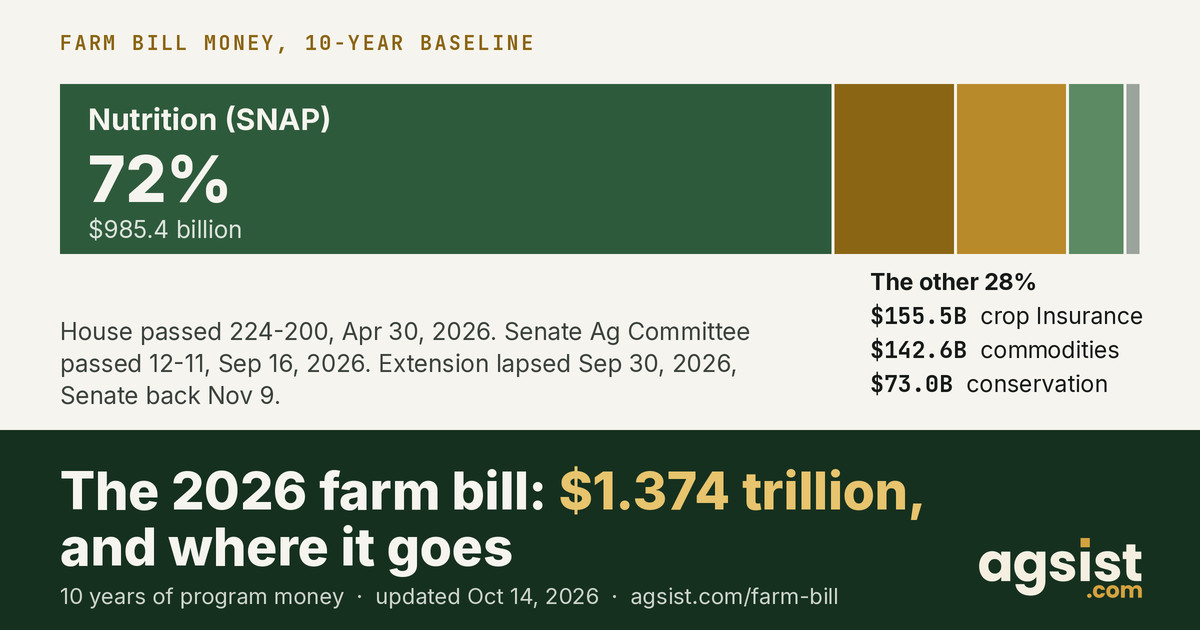
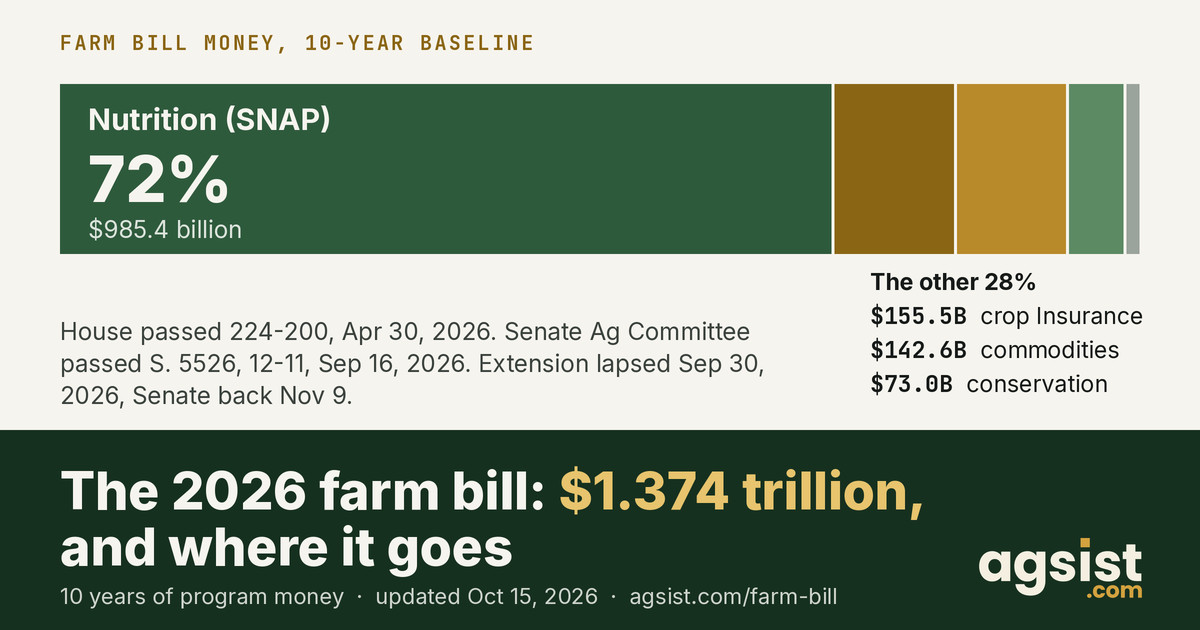
Farm bill: Senate bill number on phone cards and pill, plainer Rules Committee line, share image

Changed region(s): [[0.0308, 0.5429, 0.6475, 0.6635], [0.5242, 0.9349, 0.7092, 0.9651], [0.4317, 0.9349, 0.4933, 0.9651]]

diff --git a/farm-bill.html b/farm-bill.html
@@ -14,16 +14,16 @@
 <meta property="og:description" content="Where the 2026 Farm Bill stands: Senate committee passed it 12-11 on Sep 16, the $1.374T baseline by title, House vs Senate side-by-side, and what the Sep 30 lapse stopped. Sources linked.">
 <meta property="og:type" content="article">
 <meta property="og:url" content="https://agsist.com/farm-bill">
-<meta property="og:image" content="https://agsist.com/img/og/farm-bill.jpg?v=f08e740e">
+<meta property="og:image" content="https://agsist.com/img/og/farm-bill.jpg?v=75dbcfad">
 <meta property="og:image:width" content="1200">
 <meta property="og:image:height" content="630">
-<meta property="og:image:alt" content="The 2026 farm bill&#x27;s $1.374 trillion ten-year baseline: Nutrition (SNAP) is 72% ($985.4 billion). House passed 224-200, Apr 30, 2026. Senate Ag Committee passed 12-11, Sep 16, 2026. Extension lapsed Sep 30, 2026, Senate back Nov 9.">
+<meta property="og:image:alt" content="The 2026 farm bill&#x27;s $1.374 trillion ten-year baseline: Nutrition (SNAP) is 72% ($985.4 billion). House passed 224-200, Apr 30, 2026. Senate Ag Committee passed S. 5526, 12-11, Sep 16, 2026. Extension lapsed Sep 30, 2026, Senate back Nov 9.">
 <meta property="article:published_time" content="2026-06-20">
 <meta property="article:modified_time" content="2026-10-15">
 <meta name="twitter:card" content="summary_large_image">
 <meta name="twitter:title" content="2026 Farm Bill, Explained: House vs Senate, Money &amp; Status">
 <meta name="twitter:description" content="Senate committee passed it 12-11 on Sep 16. The $1.374T baseline, House vs Senate side-by-side, and what the Sep 30 lapse stopped. Sources linked.">
-<meta name="twitter:image" content="https://agsist.com/img/og/farm-bill.jpg?v=f08e740e">
+<meta name="twitter:image" content="https://agsist.com/img/og/farm-bill.jpg?v=75dbcfad">
 <!-- static-nav:fonts (scripts/inject_static_nav.py) -->
   <link rel="preload" href="/fonts/inter-var.woff2" as="font" type="font/woff2" crossorigin>
   <link rel="preload" href="/fonts/jetbrains-mono-var.woff2" as="font" type="font/woff2" crossorigin>
@@ -48,7 +48,7 @@
   "headline":"2026 Farm Bill, Explained: House vs Senate, the Money, and Where It Stands",
   "description":"A neutral, sourced breakdown of the 2026 Farm Bill: the $1.374 trillion baseline by title, a House vs Senate comparison, and the path to enactment.",
   "about":["2026 Farm Bill","Farm, Food, and National Security Act of 2026 (H.R. 7567)","Agricultural Act of 2026 (S. 5526, Farm Bill 2.0)"],
-  "image":"https://agsist.com/img/og/farm-bill.jpg?v=f08e740e",
+  "image":"https://agsist.com/img/og/farm-bill.jpg?v=75dbcfad",
   "author":{"@type":"Person","name":"Sigurd Lindquist","url":"https://agsist.com/about"},
   "publisher":{"@type":"Organization","name":"AGSIST","url":"https://agsist.com","logo":{"@type":"ImageObject","url":"https://agsist.com/img/og/agsist.jpg"}},
   "datePublished":"2026-06-20",
@@ -312,7 +312,7 @@ h2{font-family:var(--display);font-weight:700;font-size:clamp(22px,3.2vw,30px);l
   .cmp-row .rk{font-family:var(--mono);font-size:12.9px;letter-spacing:.06em;text-transform:uppercase;color:var(--accent)}
   .cmp-row .cv::before{font-family:var(--mono);font-size:12.7px;letter-spacing:.08em;text-transform:uppercase;color:var(--text-muted);display:block;margin-bottom:4px}
   .cmp-row .cv.h::before{content:"House · H.R. 7567"}
-  .cmp-row .cv.s::before{content:"Senate · Agricultural Act of 2026"}
+  .cmp-row .cv.s::before{content:"Senate · S. 5526"}
 }
 @media (max-width:640px){
   .title-row{grid-template-columns:44px 1fr;gap:14px}
@@ -389,7 +389,7 @@ details.fold>summary>h2,details.fold>summary>h3{margin:0!important;padding:0!imp
     <div class="status-row">
       <!--FB:pills-->
       <span class="pill live"><span class="mk"></span>House passed <b>224&ndash;200</b> &middot; Apr 30, 2026</span>
-      <span class="pill live"><span class="mk"></span>Senate Ag Committee <b>passed S.&nbsp;5526</b> 12&ndash;11 &middot; Sep 16, 2026</span>
+      <span class="pill live"><span class="mk"></span>Senate Ag Committee <b>passed S.&nbsp;5526, 12&ndash;11</b> &middot; Sep 16, 2026</span>
       <span class="pill warn"><span class="mk"></span>Extension <b>lapsed Sep 30, 2026</b> &middot; Senate back Nov 9</span>
       <!--/FB:pills-->
     </div>
